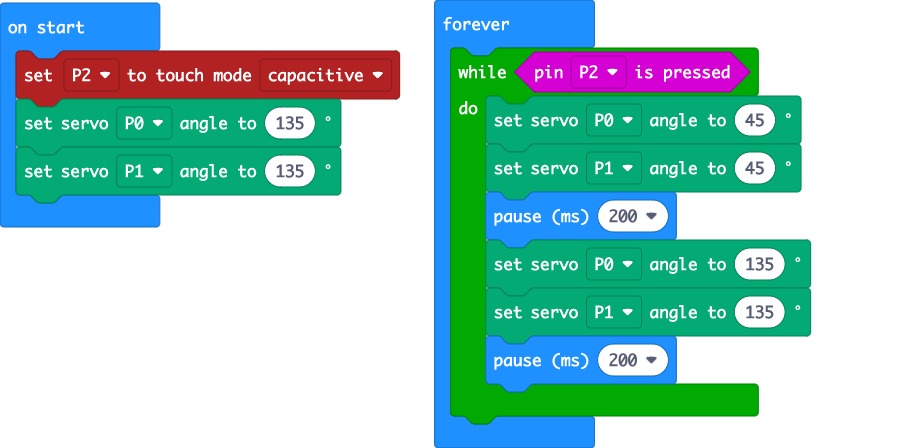
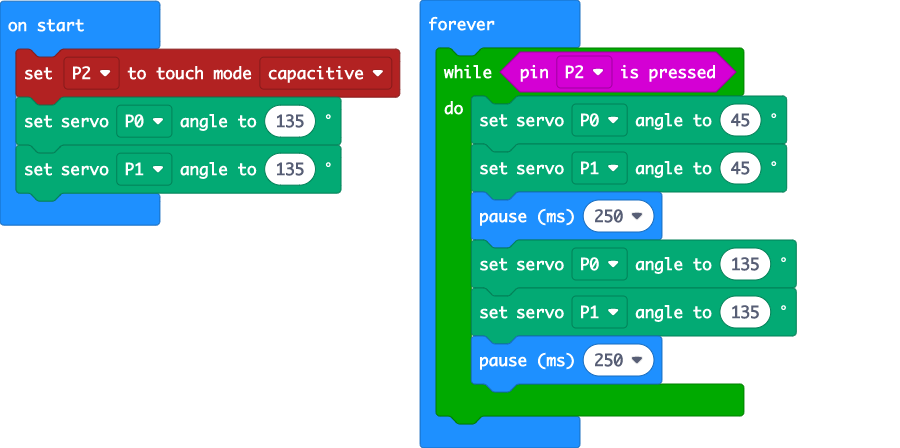
Update main.blocks, main.ts

diff --git a/main.ts b/main.ts
@@ -5,9 +5,9 @@ basic.forever(function () {
     while (input.pinIsPressed(TouchPin.P2)) {
         servos.P0.setAngle(45)
         servos.P1.setAngle(45)
-        basic.pause(200)
+        basic.pause(250)
         servos.P0.setAngle(135)
         servos.P1.setAngle(135)
-        basic.pause(200)
+        basic.pause(250)
     }
 })
